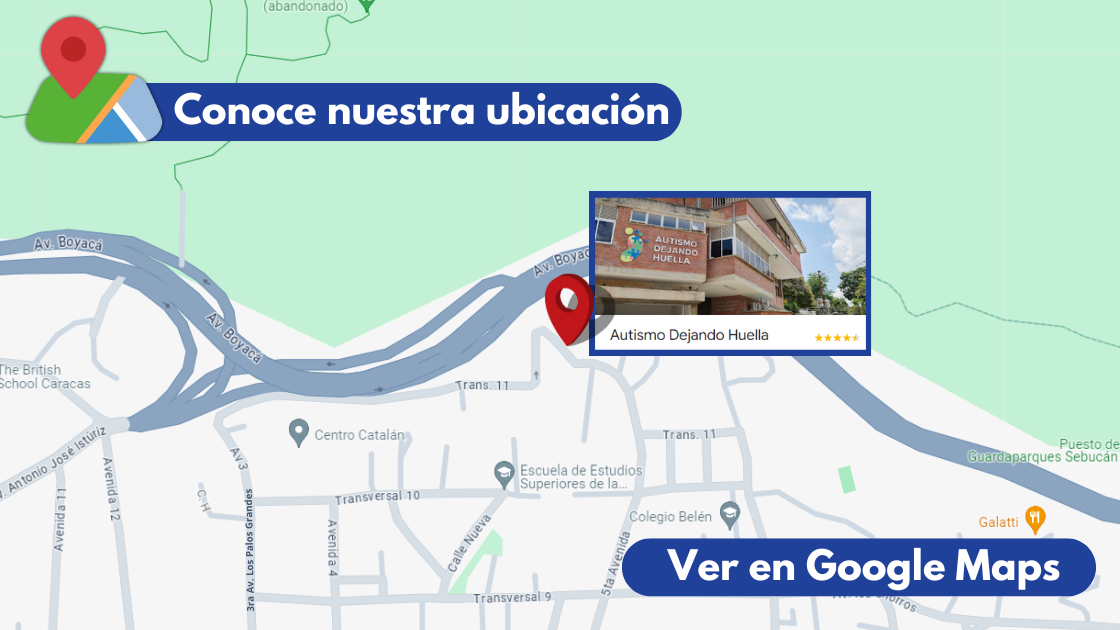
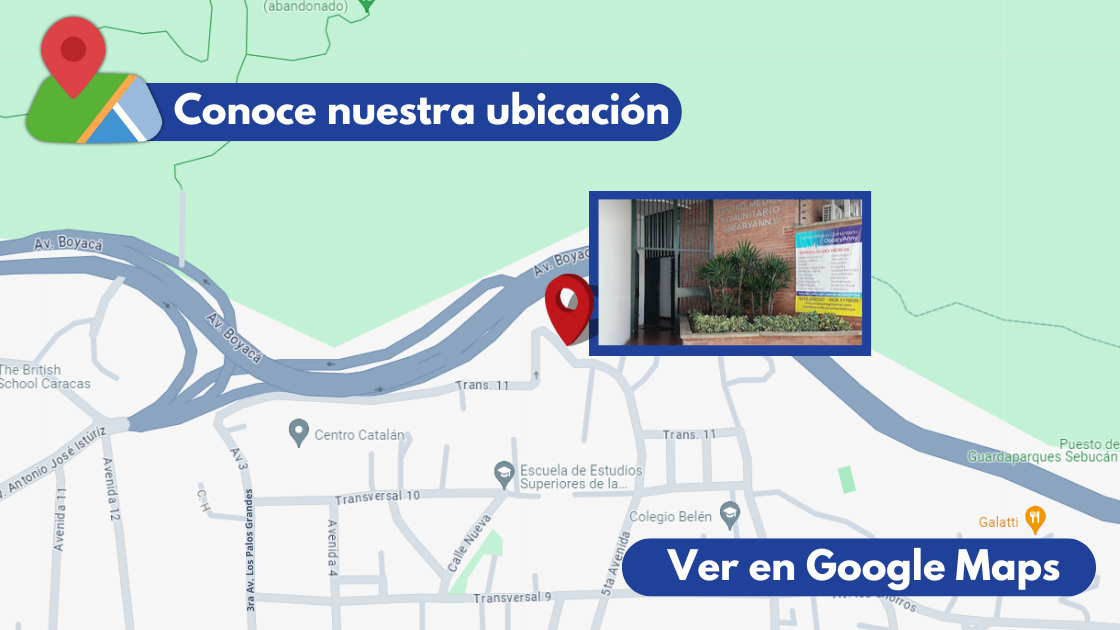
Cambios de  numero y de mapa

Changed region(s): [[0.5312, 0.3016, 0.7812, 0.573]]

diff --git a/index.html b/index.html
@@ -537,7 +537,7 @@
 					<tr>
 						<td align="center" valign="top" style="border-collapse: collapse; border-spacing: 0; margin: 0; padding: 0;
 			padding-top: 20px;" class="hero"><br /><a target="_blank" style="text-decoration: none;"
-								href="https://maps.app.goo.gl/EBUC6HwretWPkxGQA"><img border="0" vspace="0" hspace="0"
+								href="https://maps.app.goo.gl/QybTCYnArEXochhm7"><img border="0" vspace="0" hspace="0"
 									src="img/Mapa.png" alt="Please enable images to view this content"
 									title="Mapa de ubicación del Centro Médico Comunitario OscaryAnny" width="560"
 									style="
@@ -592,10 +592,10 @@
 			padding-bottom: 25px;
 			color: #000000;
 			font-family: sans-serif;" class="paragraph">
-							¿Problemas para agendar por WhatsApp?<br />¡Llámanos al <a href="tel:02122857547"
+							¿Problemas para agendar por WhatsApp?<br />¡Llámanos al <a href="tel:02122854030"
 								target="_blank"
 								style="color: #127DB3; font-family: sans-serif; font-size: 17px; font-weight: 400; line-height: 160%;"><b>(0212)
-									285 7547</b></a> y te ayudaremos!
+									285 4030</b></a> y te ayudaremos!
 						</td>
 					</tr>
 
